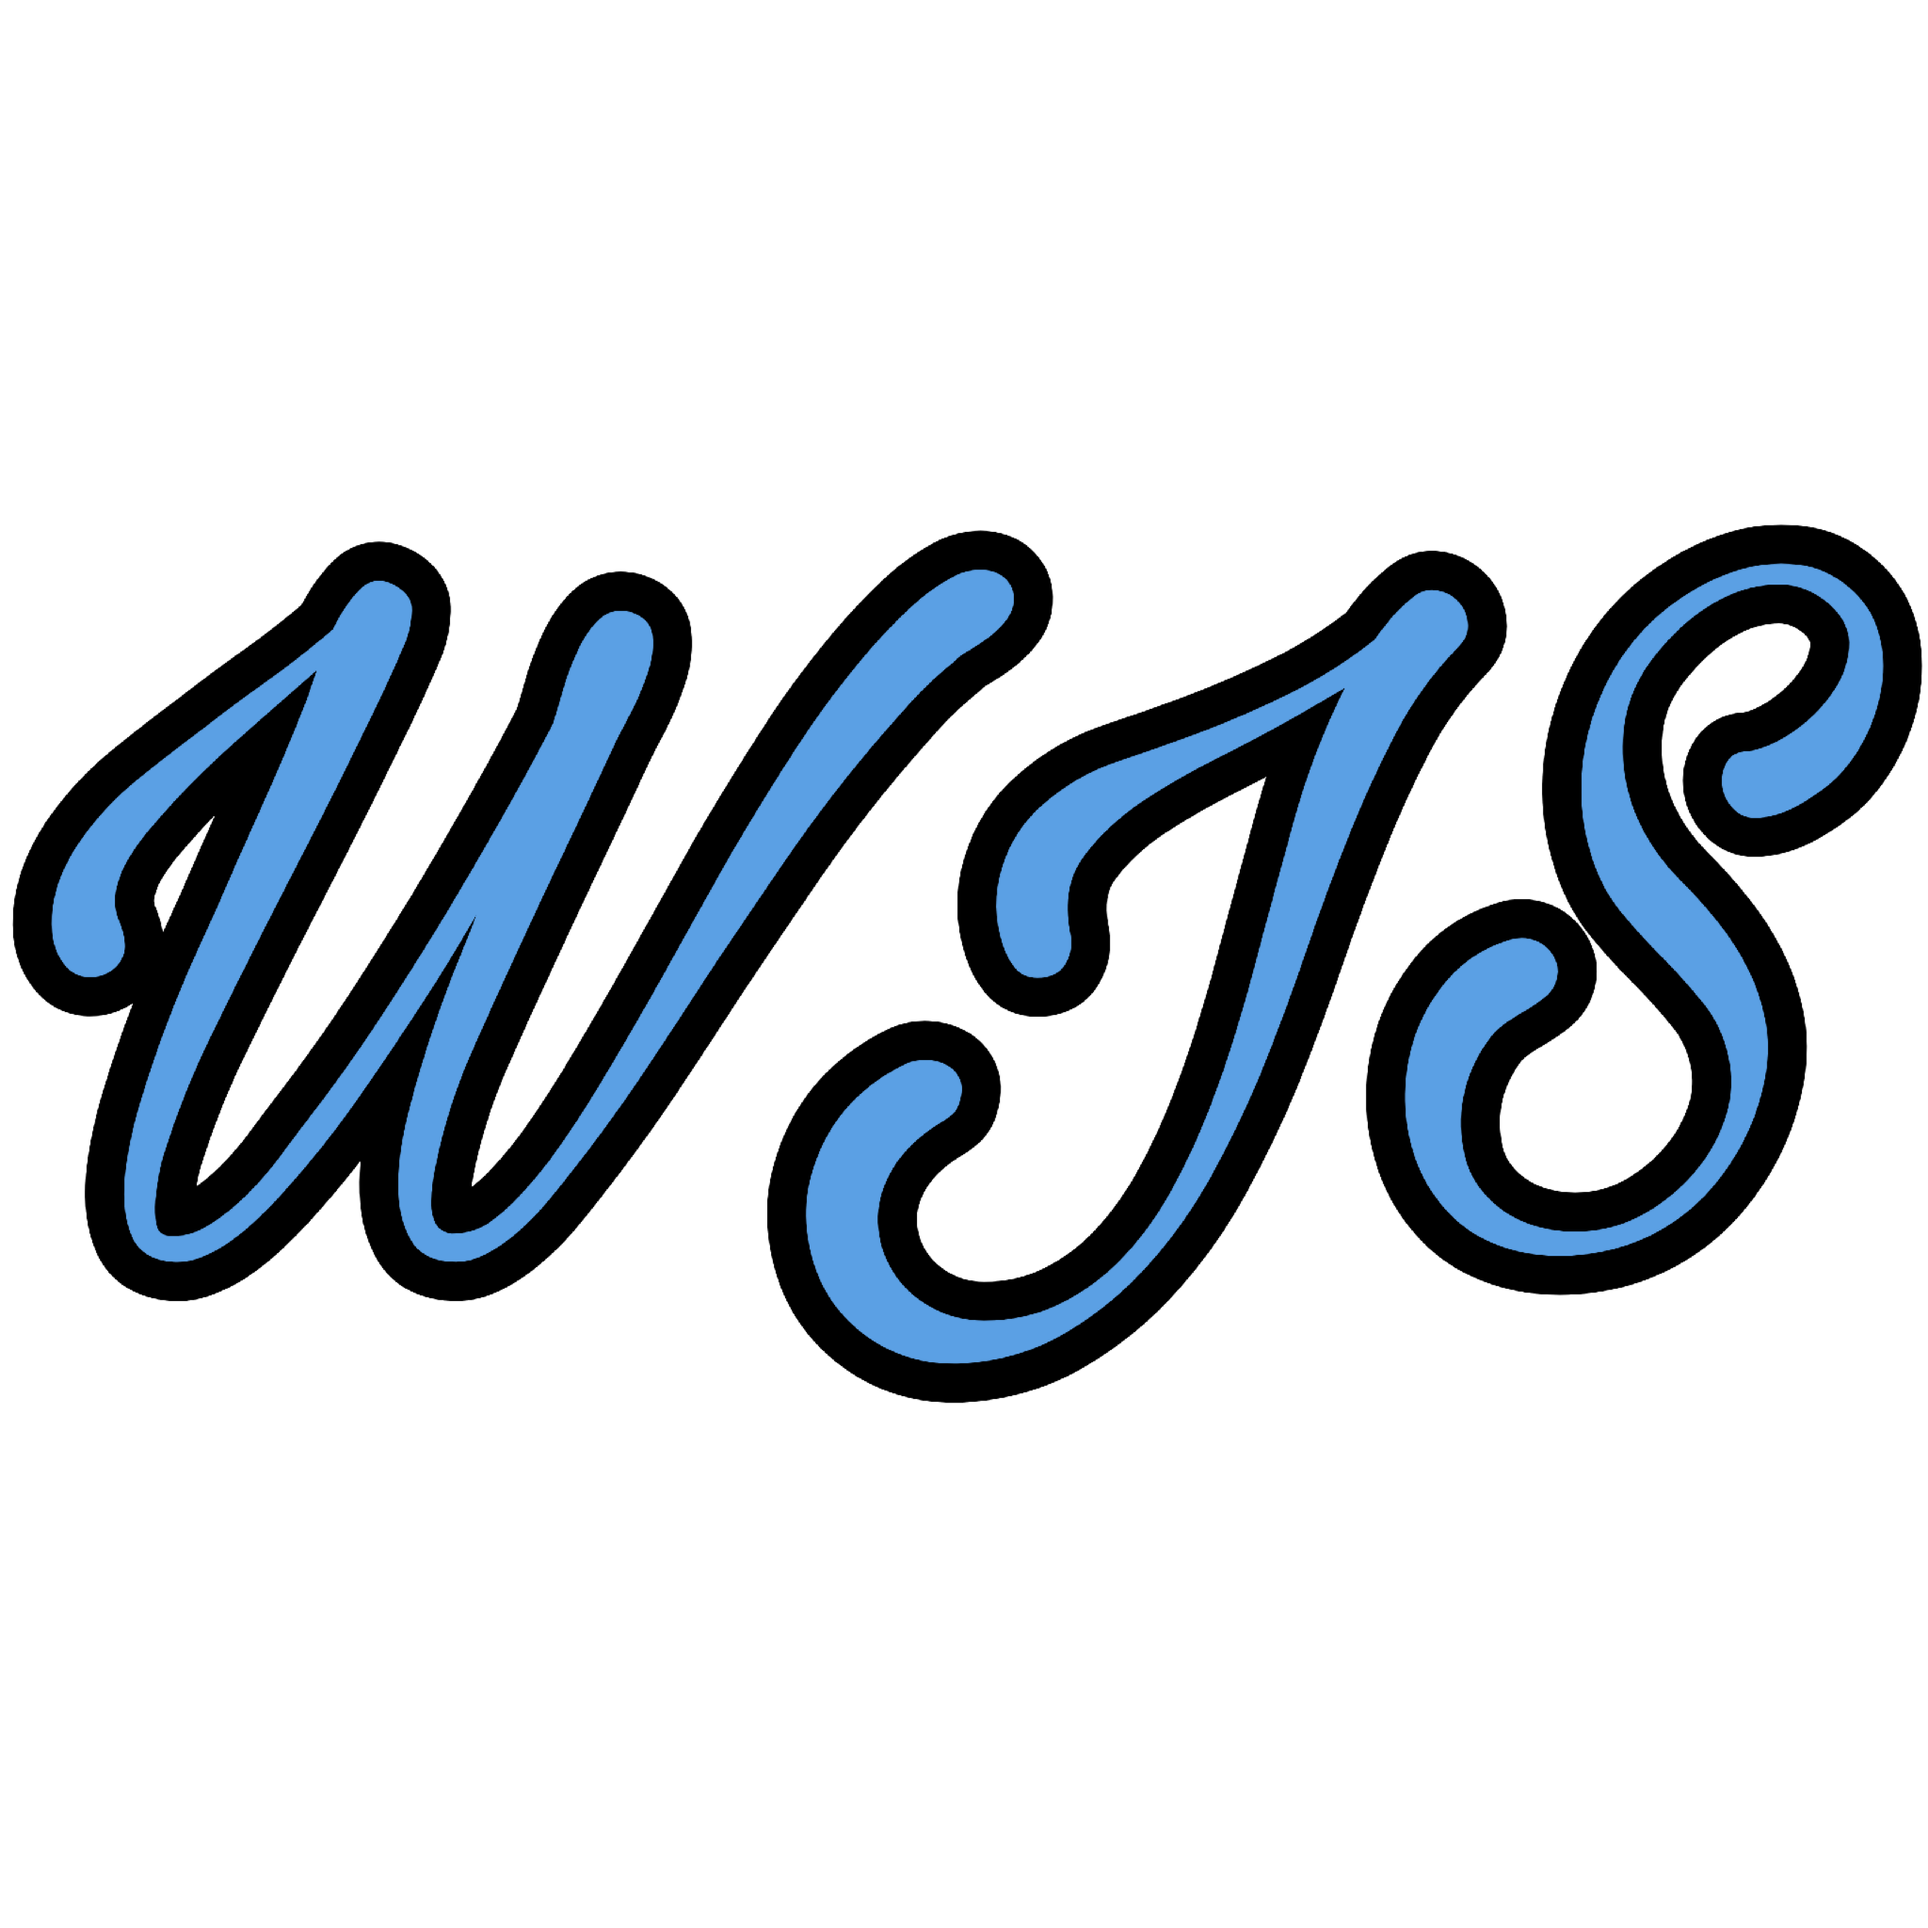
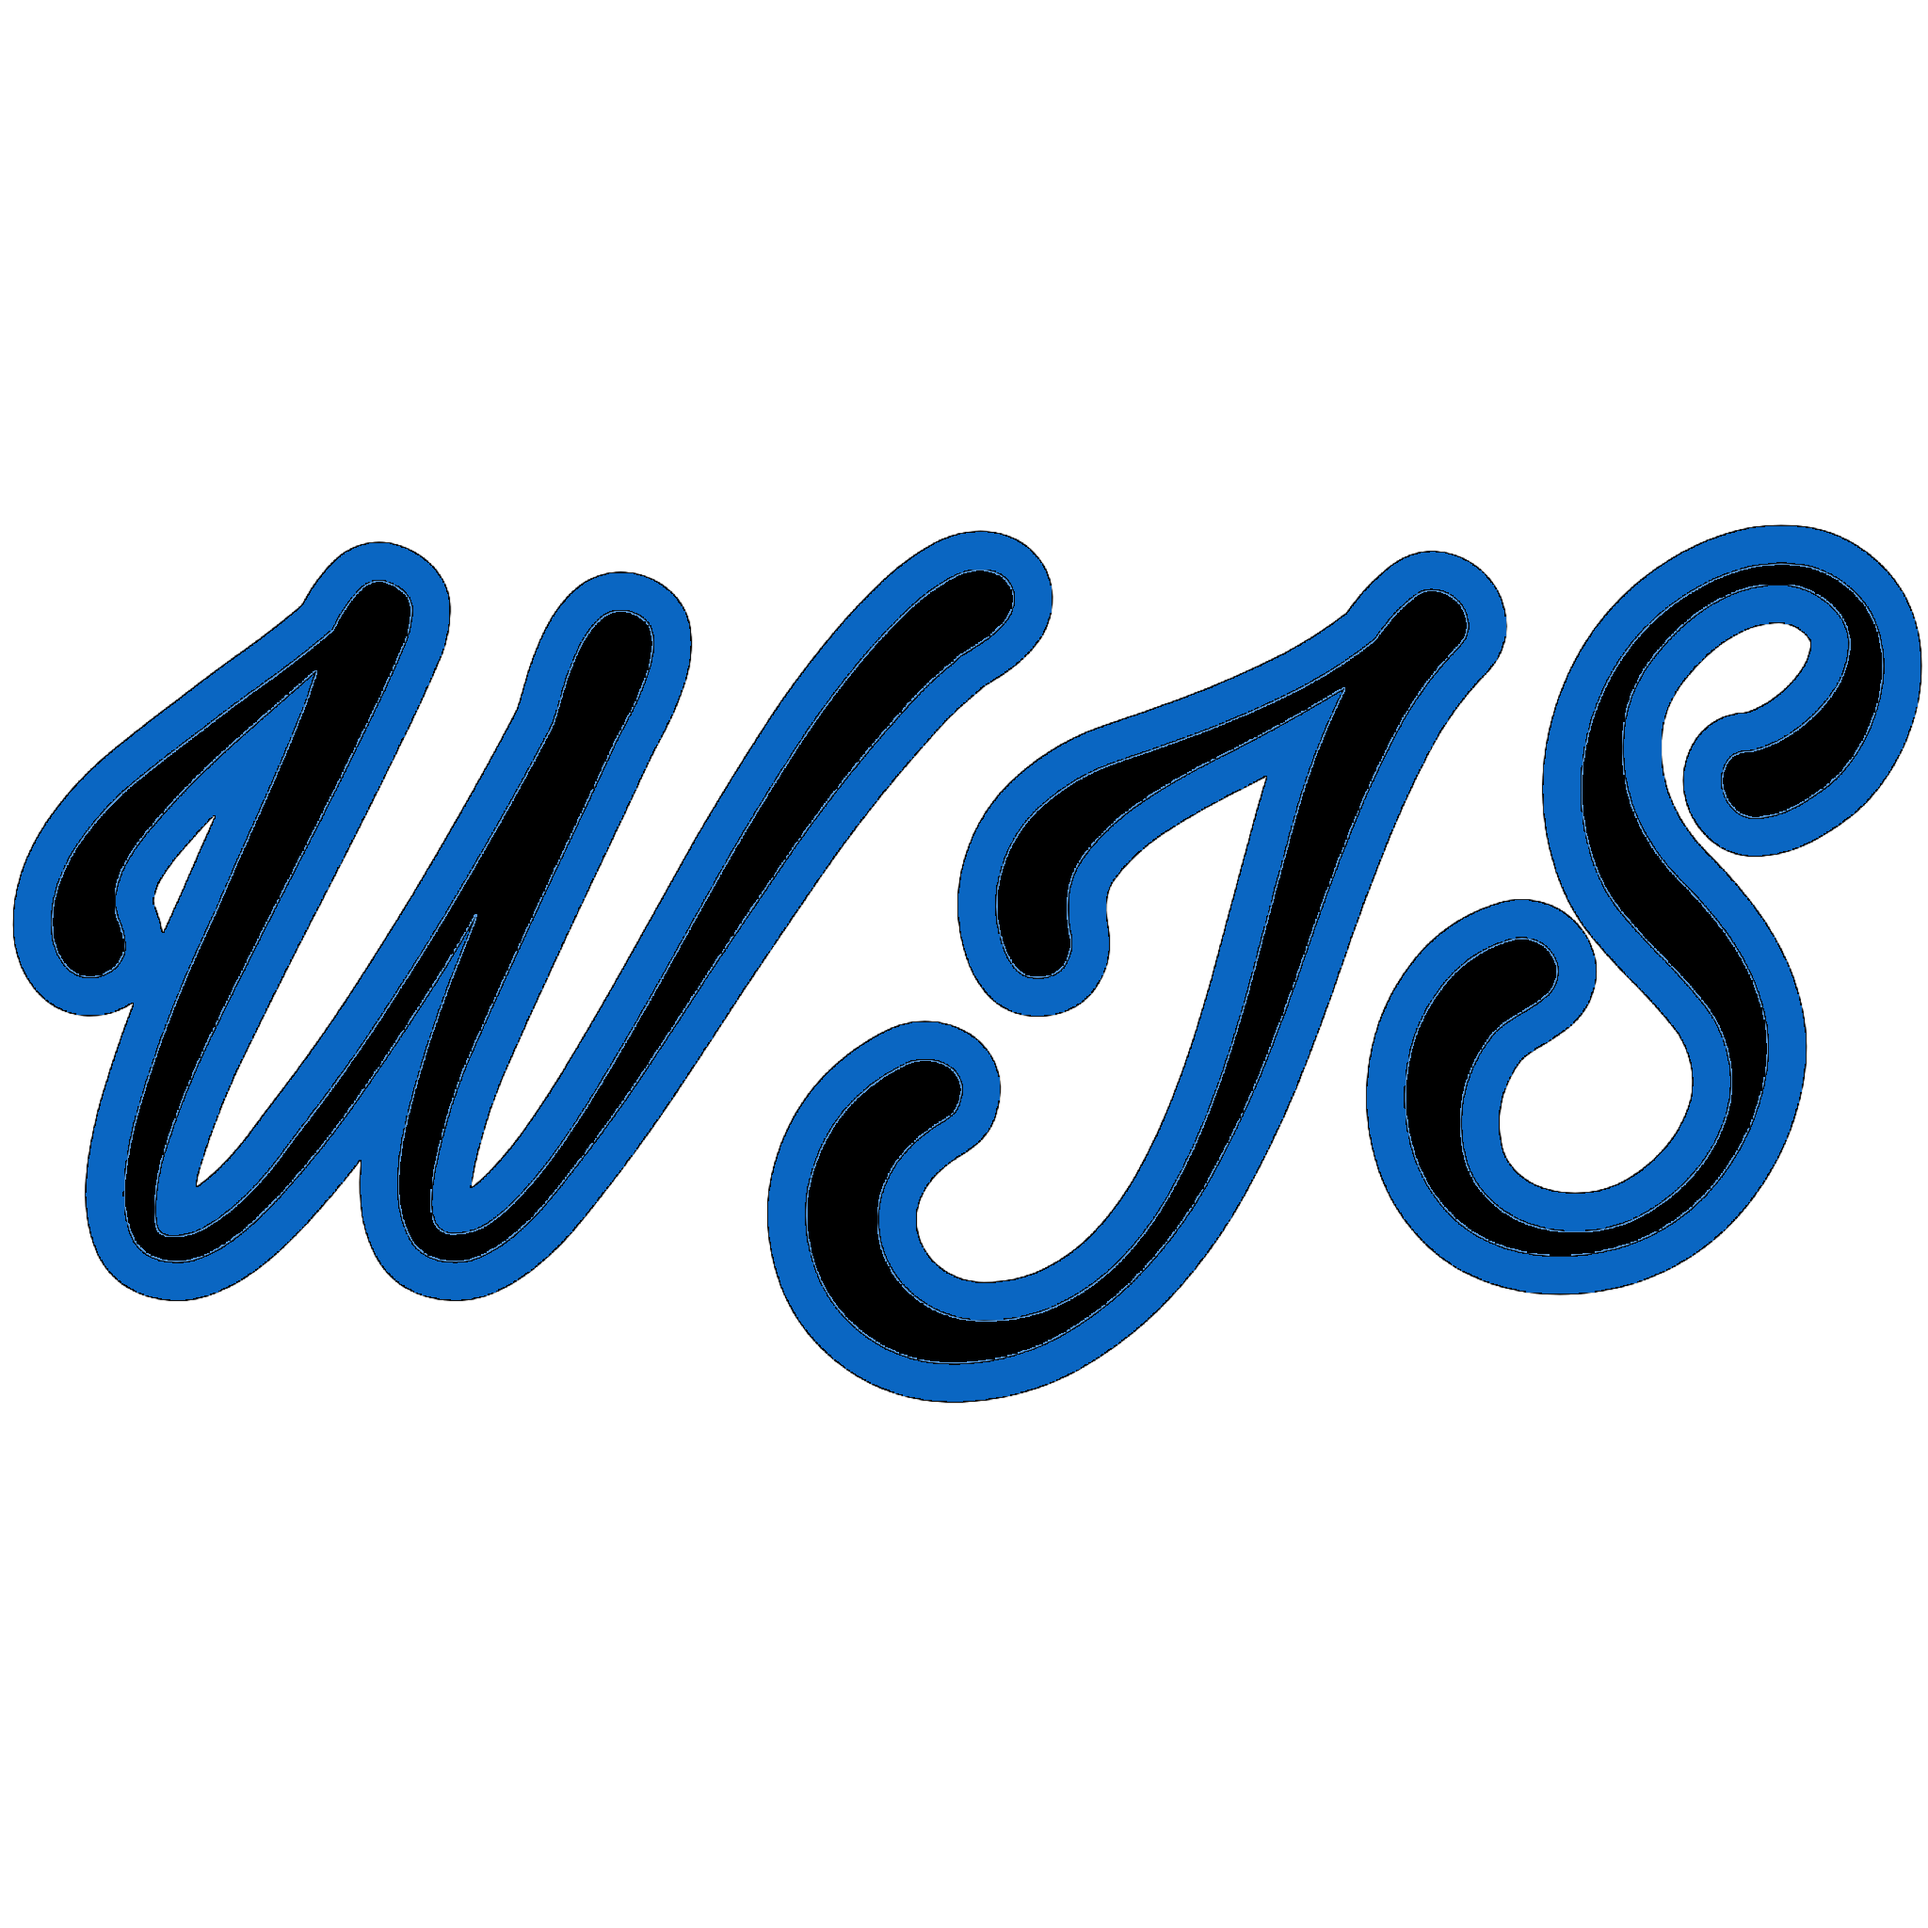
Add files via upload

Changed region(s): [[0.375, 0.25, 1.0, 0.75], [0.0, 0.25, 0.5625, 0.6875]]

diff --git a/style.css b/style.css
@@ -6,15 +6,22 @@
 
 body {
     font-family: sans-serif;
-    background-image: url("ciemne-tlo.png");
-    background-size: cover;
-    color: white;
+    background-image: url("ciemne-tlo-nieb.jpg");
+    background-size: 100% auto;
+    background-attachment: fixed;
+    position: relative;
+}
+
+span{
+    color: rgba(255, 255, 255, 0);
+    display: none;
 }
 
 .tlo{
     width: 100vw;
     min-height: 100vh;
     height: auto;
+    padding-top: 10vh;
     background-color: rgba(0, 0, 0, 0.5);
 }
 
@@ -27,13 +34,31 @@ nav{
     align-items: center;
     margin-right: 10px;
     font-size: 25px;
-
+    position: fixed;
+    top: 0;
+    width: 100%;
+    z-index: 999;
 }
+nav a{
+    color: #2579ce;
+    text-shadow: 4px 4px 40px rgba(0, 130, 255, 1);
+}
+nav a:first-of-type{
+    border-right: 3px solid rgba(43, 39, 39, 0.7);
+    margin-right: 3px;
+    padding-right: 10px;
+}
+nav a:last-of-type{
+    border-left: 3px solid rgba(43, 39, 39, 0.7);
+    margin-left: 3px;
+    padding-left: 10px;
+}
+
 .img{
-    background-image: url("Logo.png");
+    background-image: url("Logo-nieb.png");
     background-size: cover;
-    height: 10vh;
-    width: 10vh;
+    height: 9vh;
+    width: 9vh;
 }
 
 .tel-button {
@@ -46,7 +71,7 @@ nav{
 .tel-button div {
     width: 25px;
     height: 3px;
-    background: white;
+    background: linear-gradient(90deg, #0a66c2, #3e7cb1) ;
 }
 
 .tel-menu {
@@ -71,7 +96,7 @@ nav{
     text-decoration: none;
 }
 .tel-img{
-    background-image: url("Logo.png");
+    background-image: url("Logo-nieb.png");
     background-size: cover;
     border: none;
     width: calc(50px + 1.5rem);
@@ -120,9 +145,9 @@ nav{
     flex-direction: column;
     overflow: hidden;
 }
-
 .dropdown-kategoria {
     background-color: rgba(20, 20, 20, 0.8);
+    text-shadow: 4px 4px 30px rgba(0, 130, 255, 1);
     font-size: 20px;
     height: 50px;
     padding: 10px;
@@ -133,10 +158,48 @@ nav{
     display: flex;
     justify-content: center;
     align-items: center;
+    overflow: hidden;
+    position: relative;
+}
+
+.dropdown-kategoria::after {
+    content: '';
+    position: absolute;
+    top: 0;
+    left: -100%;
+    width: 50%;
+    height: 100%;
+    background-color: #0a66c212;
+    transition: none; 
+    transform: skewX(45deg);
+    transform-origin: center;
+}
+
+.dropdown-kategoria:hover::after {
+    animation: slideIn 0.7s forwards; 
+}
+
+@keyframes slideIn {
+    0% {
+        left: -100%;
+    }
+    100% {
+        left: 107%;
+    }
+}
+
+.dropdown-kategoria,
+.tel-menu-a {
+    color: #5d9de7;
+}
+.dropdown-kategoria:hover,
+.dropdown-kategoria:hover::before{
+    color: #91d1ff;
 }
 
 .dropdown-kategoria::before {
     content: "▶";
+    color: #7db0eb;
     margin-right: 10px;
     margin-bottom: 1px;
     font-weight: bold;
@@ -169,25 +232,29 @@ nav{
 
 a{
     text-decoration: none;
-    color: rgba(255, 255, 0, 0.95);
     display: flex;
     padding: 5px;
     align-items: center;
     justify-content: center;
     height: 50px;
+    color: #0a66c2;
 }
-a:active{
-    color: rgb(247, 247, 64);
+a:hover{
+    color: #63b3ed;
 }
 
 
 
 @media (max-width: 500px){
+    span{
+        display: flex;
+    }
     body{
-        background-image: url("ciemne-tlo-telefon.jpg");
+        background-image: url("ciemne-tlo-telefon-nieb.jpg");
     }
     .tlo{
-        background-color: rgba(0, 0, 0, 0.2);
+        background-color: rgba(0, 0, 0, 0.5);
+        padding-top: 10vh;
     }
     
     .container{
@@ -210,7 +277,10 @@ a:active{
         top: 1em;
     }
     nav{
-        position: relative;
+        position: fixed;
+        top: 0;
+        width: 100%;
+        z-index: 999;
         text-align: center;
     }
 

diff --git a/script.js b/script.js
@@ -1,11 +1,11 @@
 let dropdownKategoria = document.querySelectorAll(".dropdown-kategoria");
 dropdownKategoria.forEach(el => {
-    el.addEventListener("click", function(){
+    el.addEventListener("click", function () {
         this.parentElement.classList.toggle("open");
-        let rgb = 26;
+        let rgb = 16;
         let linki = this.parentElement.querySelectorAll("a");
         linki.forEach(element => {
-            element.style.backgroundColor = `rgba(${rgb}, ${rgb}, ${rgb}, 0.8)`;
+            element.style.backgroundColor = `rgba(${rgb}, ${rgb}, ${rgb * 2}, 0.8)`;
             rgb += 3;
         });
     });
@@ -14,25 +14,31 @@ dropdownKategoria.forEach(el => {
 let img = document.querySelector(".img");
 let spr = 0;
 let telImg = document.querySelector(".tel-img");
-img.addEventListener("click", () => {
-    if (spr == 0){
-        img.style.backgroundImage = "url('Wjs.png')";
+img.addEventListener("click", (e) => {
+    e.preventDefault();
+    if (spr == 0) {
+        img.style.backgroundImage = "url('Wjs-nieb.png')";
         img.style.margin = "0 5px";
+        img.style.width = "12vh";
+        img.style.height = "12vh";
         spr++;
-    }else{
-        img.style.backgroundImage = "url('Logo.png')";
+    } else {
+        img.style.backgroundImage = "url('Logo-nieb.png')";
         img.style.margin = "0";
+        img.style.width = "9vh";
+        img.style.height = "9vh";
         spr--;
-    }   
+    }
 });
-telImg.addEventListener("click", () => {
-    if (spr == 0){
-        telImg.style.backgroundImage = "url('Wjs.png')";
+telImg.addEventListener("click", (e) => {
+    e.preventDefault();
+    if (spr == 0) {
+        telImg.style.backgroundImage = "url('Wjs-nieb.png')";
         spr++;
-    }else{
-        telImg.style.backgroundImage = "url('Logo.png')";
+    } else {
+        telImg.style.backgroundImage = "url('Logo-nieb.png')";
         spr--;
-    }   
+    }
 });
 
 
@@ -40,12 +46,38 @@ let telButton = document.querySelector(".tel-button");
 let overlay = document.querySelector(".overlay");
 let telMenu = document.querySelector(".tel-menu")
 
-telButton.addEventListener("click", function(){
+telButton.addEventListener("click", function () {
     telMenu.classList.toggle("active");
     overlay.classList.toggle("active");
 });
 
-overlay.addEventListener("click", function(){
+overlay.addEventListener("click", function () {
     telMenu.classList.toggle("active");
     overlay.classList.toggle("active");
 });
+
+let beta = document.querySelector("span");
+let betaCheck = 0;
+beta.addEventListener("click", function () {
+    if (betaCheck == 0){
+        for (let k = 0; k < 20; k++) {
+        let testowy_element = document.createElement('div');
+        testowy_element.classList.add('dropdown');
+        testowy_element.innerHTML = `
+        <div class="dropdown-kategoria">Narzędzia</div>
+        <div class="dropdown-content">
+            <ul>
+                <li><a href="/Konwerter">Konwenter tekstu na kod Morse'a lub alfabet z minecraft</a></li>
+                <li><a href="/Morse">Konwenter tekstu na kod Morse'a</a></li>
+                <li><a href="/Todo">Lista rzeczy do zrobienia</a></li>
+                <li><a href="/QR-generator">Generator kodów QR (beta – brak css)</a></li>
+            </ul>
+        </div>
+`;
+        document.querySelector('.container').appendChild(testowy_element);
+    }
+    betaCheck++;
+    }
+    
+    
+})

diff --git a/index.html b/index.html
@@ -24,7 +24,8 @@
         <div class="tel-menu" id="telMenu">
             <a href="#container" class="tel-img"></a>
             <a href="" class="tel-menu-a">Projekty</a>
-            <a href="https://github.com/WJS132" class="tel-menu-a">Github</a>
+            <a href="https://github.com/WJS132" class="tel-menu-a">Github</a>  
+            <span>Test</span>
         </div>
         
         <div class="overlay" id="overlay"></div>
